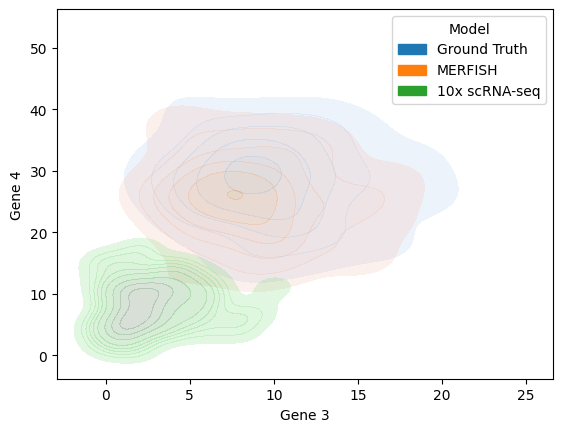
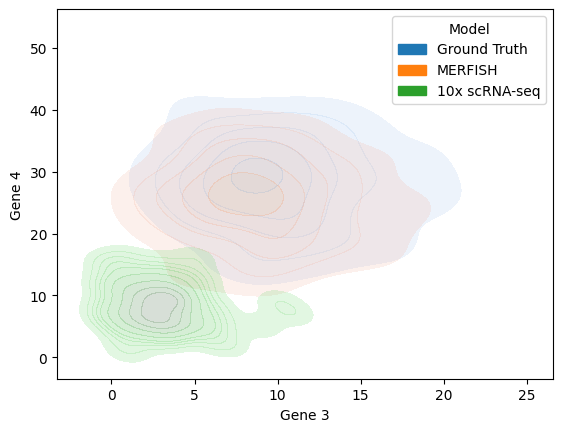
deploy: 98ba71594785bfca68f9c90a9da1b3450429bc72

diff --git a/searchindex.js b/searchindex.js
@@ -1,1 +1,1 @@
-Search.setIndex({docnames:["content","intro","markdown","notebooks"],envversion:{"sphinx.domains.c":2,"sphinx.domains.changeset":1,"sphinx.domains.citation":1,"sphinx.domains.cpp":5,"sphinx.domains.index":1,"sphinx.domains.javascript":2,"sphinx.domains.math":2,"sphinx.domains.python":3,"sphinx.domains.rst":2,"sphinx.domains.std":2,"sphinx.ext.intersphinx":1,"sphinxcontrib.bibtex":9,sphinx:56},filenames:["content.md","intro.md","markdown.md","notebooks.ipynb"],objects:{},objnames:{},objtypes:{},terms:{"0":3,"0s":3,"10":3,"100":3,"1000":3,"10000":3,"1002":3,"101":3,"10138":3,"102":3,"1031":3,"10366":3,"1056":3,"107":3,"11":3,"116":3,"117":3,"118":3,"121":3,"1306700857":3,"133":3,"15":3,"16":3,"17":3,"1738":3,"18":3,"19":3,"2014":2,"2028333819":3,"21":3,"255":3,"2588":3,"26":3,"267":3,"2682":3,"2687":3,"2689":3,"269":3,"27":3,"2742":3,"276":3,"28":3,"286":3,"2861":3,"289":3,"2890":3,"29":3,"290":3,"295":3,"296":3,"2970":3,"298":3,"2982":3,"2987":3,"2992":3,"30":3,"300":3,"3000":3,"3042":3,"3073":3,"3078":3,"31":3,"313":3,"3155":3,"32":3,"320":3,"338":3,"38":3,"4":3,"40":3,"5":3,"6":3,"7":3,"76":3,"79":3,"8":3,"805":3,"83":3,"831":3,"85":3,"87":3,"876":3,"8898":3,"8936":3,"894":3,"896":3,"897":3,"9":3,"90":3,"9001":3,"901":3,"905":3,"91":3,"9152":3,"925":3,"933":3,"9334":3,"940":3,"96":3,"983":3,"99":3,"9927":3,"9959":3,"9983":3,"case":3,"default":[2,3],"do":[0,2],"function":2,"int":3,"new":[1,3],"return":3,"short":0,"true":3,At:2,For:2,If:2,In:[2,3],It:2,The:2,Then:3,There:[0,2],_:3,_core:3,abl:3,about:[1,2,3],academ:1,accept:2,add:2,after_imput:3,again:2,all:2,all_gen:3,allow:2,alpha:3,alreadi:2,also:[2,3],am:1,an:3,analysi:3,ani:[1,2],anndata:3,anoth:[2,3],appear:3,applymap:3,approach:3,ar:[0,3],artificially_sample_cel:3,associ:2,attempt:3,auditori:2,australia:2,automat:3,avoid:3,axi:3,back:3,basi:3,becom:3,befor:3,before_imput:3,behavour:3,being:[2,3],bernoulli:3,besid:3,bib:2,bibliographi:2,bibtex:2,binomi:3,block:2,blog:3,book:2,both:2,bound:3,box:2,brian:2,brisban:2,broad:3,build:2,built:2,call:2,can:[1,2,3],captur:3,capture_r:3,cell:2,cell_gener:3,choic:3,christoph:2,cite:2,claim:3,close:3,cognit:2,column:3,come:3,command:2,commonmark:2,compar:3,complex:2,comput:[1,2],concat:3,confer:2,content:2,convers:3,convert:3,copi:3,cortex:2,could:3,cover:0,creat:3,create_synthetic_cel:3,current:3,d:2,data:1,datafram:3,de:2,def:3,defin:2,denois:3,depend:2,despit:3,determin:3,develop:3,df:3,differ:[2,3],directli:2,discov:3,diseas:1,displai:2,dist:3,distribut:3,divid:3,doc:2,document:2,doesn:2,downstream:3,drop:3,dropout:3,dtype:3,due:3,duplic:3,each:3,ecosystem:2,effect:3,els:3,engin:1,entir:2,errerron:3,evid:2,exact:3,exampl:2,exist:2,explicitli:3,extens:2,extern:3,f:3,fail:3,fals:3,few:0,figur:3,fill:3,find:1,first:2,flavor:2,float32:3,float64:3,fluoresc:3,follow:2,fraction:3,from:3,frontier:2,futur:3,futurewarn:3,g:3,gene:3,get:3,given:3,go:1,goal:3,ground:3,ha:[2,3],hdhpk14:2,head:3,health:1,heer:2,hello:1,help:[1,3],here:[2,3],high:3,hold:3,holdgraf:2,holdgraf_evidence_2014:2,hostedtoolcach:3,how:0,hue:3,human:2,i:[1,3],identifi:3,ignore_index:3,implicitmodificationwarn:3,improv:3,imputed_df:3,imputed_resc:3,imputed_rescaled_df:3,includ:[2,3],index:3,indic:3,inform:[2,3],init:2,inplac:3,input:[2,3],insert:2,insid:2,insight:1,institut:3,int64:3,interest:1,intern:2,intro:2,ipykernel_1989:3,ipynb:2,its:[2,3],journei:1,junior:1,jupyt:2,jupytext:2,kdeplot:3,kernel:2,kind:2,knight:2,krishnaswami:3,lab:3,lambda:3,languag:2,later:3,learn:1,len:3,less:2,leverag:1,lib:3,like:2,limit:3,line:2,list:3,ll:2,look:2,lost:3,lower:3,m100:3,m100_new:3,m99:3,m99_new:3,mani:[0,2],markedli:2,markup:2,math:1,matplotlib:3,max:3,max_ratio:3,md:2,meanwhil:3,measur:3,median:3,merfish_df:3,merfish_original_synth:3,merfish_repr:3,merfish_rna_count:3,metadata:2,method:3,metric:3,mit:1,model:3,molecul:3,more:[2,3],moreov:2,mortem:3,most:2,mrna:3,much:3,multipli:3,must:2,my:[1,2],mydirectivenam:2,n:[2,3],n_job:3,name:[1,2],name_list:3,nb:2,nbinom:3,necessari:3,neg:3,neurosci:2,next:3,normalize_tot:3,normalized_sum:3,note:2,notebook:2,np:3,number:3,number_cel:3,numpi:3,obscur:3,observ:3,observerd:3,obtain:3,older:3,onc:2,one:2,onli:[2,3],opt:3,order:3,our:3,output:[2,3],over:1,p:3,packag:3,page:2,panda:3,paramet:3,paslei:2,pass:3,path:2,pattern:2,pd:3,percentil:3,perform:3,pipelin:3,plt:3,popular:3,post:3,potenti:3,power:2,pp:3,pre:[2,3],predict:2,previous:3,print:2,probabl:3,process:3,profil:3,promis:3,properli:2,purpos:2,py:3,pyplot:3,python3:3,python:3,ramsai:2,random:3,rang:3,rate:3,re:3,ready_for_plot:3,receiv:3,recuper:3,refer:2,regular:2,rel:2,relationship:3,render:2,repres:3,rescale_data:3,research:1,resembl:3,rest:2,result:2,rna:3,rna_species_char:3,rna_species_characteristic_numb:3,robert:2,rolenam:2,root:3,row:3,rule:1,run:2,rv:3,rv_continu:3,rv_discret:3,s:[2,3],same:2,sampl:3,saul:1,sc:3,scanpi:3,scatterplot:3,sce:3,scienc:1,scipi:3,scnra:3,seaborn:3,section:0,see:[1,2,3],seed:3,sequenc:3,serv:[2,3],set:3,set_axi:3,shape:3,share:1,sim_captur:3,similar:[2,3],simpl:3,simplest:2,singl:3,site:[2,3],size:3,slight:2,small:2,sn:3,so:[0,2],solver:3,some:2,span:2,speci:3,specif:2,spectrum:3,sphinx:2,sqrt:3,squar:3,stand:2,stat:3,step:3,still:3,store:2,str:3,strive:1,structur:2,studi:1,success:3,successfulli:3,sum:3,support:3,syntax:2,synth_cel:3,t:[2,3],target:3,target_data:3,target_sum:3,tenx_norm:3,tenx_norm_df:3,tenx_original_synth:3,tenx_raw:3,tenx_repr:3,tenx_rescaled_norm:3,test:3,text:2,thei:[2,3],thi:[0,1,2,3],thing:1,think:3,those:2,through:1,throughout:1,thu:3,tile:3,time:[1,2],tip:0,tissu:3,tmp:3,to_df:3,tool:[2,3],transcript:3,transform:3,true_cells_df:3,truth:3,two:[2,3],univers:3,us:[1,3],util:3,valid:2,valu:3,variat:2,veri:2,version:3,vestigi:3,visual:3,wai:0,warn:3,we:3,weight:3,welcom:2,wendi:2,what:1,when:2,where:3,wherea:2,whether:[2,3],which:[2,3],within:3,without:3,work:2,write:[0,2,3],written:2,x64:3,x:3,y:3,you:2,your:3},titles:["Content in Jupyter Book","Welcome to the site!","Markdown Files","Evaluating MAGIC with Synthetic Dataset"],titleterms:{"1":3,"10x":3,"2":3,"3":3,"function":3,"import":3,ad:2,after:3,ar:2,book:0,both:3,cell:3,citat:2,code:2,content:0,count:3,data:3,dataset:3,direct:2,evalu:3,execut:2,file:2,gener:3,imput:3,intro:3,jupyt:0,magic:3,markdown:2,merfish:3,myst:2,normal:3,peek:3,plot:3,rescal:3,result:3,role:2,run:3,scrna:3,seq:3,simul:3,site:1,synthet:3,us:2,welcom:1,what:2,your:2}})
+Search.setIndex({docnames:["content","intro","markdown","notebooks"],envversion:{"sphinx.domains.c":2,"sphinx.domains.changeset":1,"sphinx.domains.citation":1,"sphinx.domains.cpp":5,"sphinx.domains.index":1,"sphinx.domains.javascript":2,"sphinx.domains.math":2,"sphinx.domains.python":3,"sphinx.domains.rst":2,"sphinx.domains.std":2,"sphinx.ext.intersphinx":1,"sphinxcontrib.bibtex":9,sphinx:56},filenames:["content.md","intro.md","markdown.md","notebooks.ipynb"],objects:{},objnames:{},objtypes:{},terms:{"0":3,"0s":3,"10":3,"100":3,"1000":3,"10000":3,"1002":3,"101":3,"10138":3,"1031":3,"10366":3,"1056":3,"106":3,"107":3,"112":3,"116":3,"118":3,"12":3,"121":3,"1306700857":3,"133":3,"145":3,"16":3,"17":3,"1738":3,"18":3,"2014":2,"2028333819":3,"21":3,"25":3,"26":3,"2600":3,"261":3,"2669":3,"2707":3,"271":3,"2711":3,"272":3,"2741":3,"275":3,"281":3,"282":3,"2861":3,"287":3,"29":3,"290":3,"295":3,"296":3,"2963":3,"2969":3,"2970":3,"2980":3,"2982":3,"2987":3,"30":3,"300":3,"3000":3,"304":3,"3073":3,"3081":3,"3086":3,"32":3,"320":3,"322":3,"33":3,"4":3,"40":3,"42":3,"43":3,"5":3,"6":3,"7":3,"78":3,"8":3,"82":3,"832":3,"846":3,"85":3,"86":3,"871":3,"881":3,"8924":3,"898":3,"8986":3,"8988":3,"9":3,"90":3,"902":3,"910":3,"9151":3,"925":3,"932":3,"9371":3,"940":3,"950":3,"983":3,"99":3,"9927":3,"9959":3,"9983":3,"case":3,"default":[2,3],"do":[0,2],"function":2,"int":3,"new":[1,3],"return":3,"short":0,"true":3,At:2,For:2,If:2,In:[2,3],It:2,The:2,Then:3,There:[0,2],_:3,_core:3,abl:3,about:[1,2,3],academ:1,accept:2,add:2,after_imput:3,again:2,all:2,all_gen:3,allow:2,alpha:3,alreadi:2,also:[2,3],am:1,an:3,analysi:3,ani:[1,2],anndata:3,anoth:[2,3],appear:3,applymap:3,approach:3,ar:[0,3],artificially_sample_cel:3,associ:2,attempt:3,auditori:2,australia:2,automat:3,avoid:3,axi:3,back:3,basi:3,becom:3,befor:3,before_imput:3,behavour:3,being:[2,3],bernoulli:3,besid:3,bib:2,bibliographi:2,bibtex:2,binomi:3,block:2,blog:3,book:2,both:2,bound:3,box:2,brian:2,brisban:2,broad:3,build:2,built:2,call:2,can:[1,2,3],captur:3,capture_r:3,cell:2,cell_gener:3,choic:3,christoph:2,cite:2,claim:3,close:3,cognit:2,column:3,come:3,command:2,commonmark:2,compar:3,complex:2,comput:[1,2],concat:3,confer:2,content:2,convers:3,convert:3,copi:3,cortex:2,could:3,cover:0,creat:3,create_synthetic_cel:3,current:3,d:2,data:1,datafram:3,de:2,def:3,defin:2,denois:3,depend:2,despit:3,determin:3,develop:3,df:3,differ:[2,3],directli:2,discov:3,diseas:1,displai:2,dist:3,distribut:3,divid:3,doc:2,document:2,doesn:2,downstream:3,drop:3,dropout:3,dtype:3,due:3,duplic:3,each:3,ecosystem:2,effect:3,els:3,engin:1,entir:2,errerron:3,evid:2,exact:3,exampl:2,exist:2,explicitli:3,extens:2,extern:3,f:3,fail:3,fals:3,few:0,figur:3,fill:3,find:1,first:2,flavor:2,float32:3,float64:3,fluoresc:3,follow:2,fraction:3,from:3,frontier:2,futur:3,futurewarn:3,g:3,gene:3,get:3,given:3,go:1,goal:3,ground:3,ha:[2,3],hdhpk14:2,head:3,health:1,heer:2,hello:1,help:[1,3],here:[2,3],high:3,hold:3,holdgraf:2,holdgraf_evidence_2014:2,hostedtoolcach:3,how:0,hue:3,human:2,i:[1,3],identifi:3,ignore_index:3,implicitmodificationwarn:3,improv:3,imputed_df:3,imputed_resc:3,imputed_rescaled_df:3,includ:[2,3],index:3,indic:3,inform:[2,3],init:2,inplac:3,input:[2,3],insert:2,insid:2,insight:1,institut:3,int64:3,interest:1,intern:2,intro:2,ipykernel_1895:3,ipynb:2,its:[2,3],journei:1,junior:1,jupyt:2,jupytext:2,kdeplot:3,kernel:2,kind:2,knight:2,krishnaswami:3,lab:3,lambda:3,languag:2,later:3,learn:1,len:3,less:2,leverag:1,lib:3,like:2,limit:3,line:2,list:3,ll:2,look:2,lost:3,lower:3,m100:3,m100_new:3,m99:3,m99_new:3,mani:[0,2],markedli:2,markup:2,math:1,matplotlib:3,max:3,max_ratio:3,md:2,meanwhil:3,measur:3,median:3,merfish_df:3,merfish_original_synth:3,merfish_repr:3,merfish_rna_count:3,metadata:2,method:3,metric:3,mit:1,model:3,molecul:3,more:[2,3],moreov:2,mortem:3,most:2,mrna:3,much:3,multipli:3,must:2,my:[1,2],mydirectivenam:2,n:[2,3],n_job:3,name:[1,2],name_list:3,nb:2,nbinom:3,necessari:3,neg:3,neurosci:2,next:3,normalize_tot:3,normalized_sum:3,note:2,notebook:2,np:3,number:3,number_cel:3,numpi:3,obscur:3,observ:3,observerd:3,obtain:3,older:3,onc:2,one:2,onli:[2,3],opt:3,order:3,our:3,output:[2,3],over:1,p:3,packag:3,page:2,panda:3,paramet:3,paslei:2,pass:3,path:2,pattern:2,pd:3,percentil:3,perform:3,pipelin:3,plt:3,popular:3,post:3,potenti:3,power:2,pp:3,pre:[2,3],predict:2,previous:3,print:2,probabl:3,process:3,profil:3,promis:3,properli:2,purpos:2,py:3,pyplot:3,python3:3,python:3,ramsai:2,random:3,rang:3,rate:3,re:3,ready_for_plot:3,receiv:3,recuper:3,refer:2,regular:2,rel:2,relationship:3,render:2,repres:3,rescale_data:3,research:1,resembl:3,rest:2,result:2,rna:3,rna_species_char:3,rna_species_characteristic_numb:3,robert:2,rolenam:2,root:3,row:3,rule:1,run:2,rv:3,rv_continu:3,rv_discret:3,s:[2,3],same:2,sampl:3,saul:1,sc:3,scanpi:3,scatterplot:3,sce:3,scienc:1,scipi:3,scnra:3,seaborn:3,section:0,see:[1,2,3],seed:3,sequenc:3,serv:[2,3],set:3,set_axi:3,shape:3,share:1,sim_captur:3,similar:[2,3],simpl:3,simplest:2,singl:3,site:[2,3],size:3,slight:2,small:2,sn:3,so:[0,2],solver:3,some:2,span:2,speci:3,specif:2,spectrum:3,sphinx:2,sqrt:3,squar:3,stand:2,stat:3,step:3,still:3,store:2,str:3,strive:1,structur:2,studi:1,success:3,successfulli:3,sum:3,support:3,syntax:2,synth_cel:3,t:[2,3],target:3,target_data:3,target_sum:3,tenx_norm:3,tenx_norm_df:3,tenx_original_synth:3,tenx_raw:3,tenx_repr:3,tenx_rescaled_norm:3,test:3,text:2,thei:[2,3],thi:[0,1,2,3],thing:1,think:3,those:2,through:1,throughout:1,thu:3,tile:3,time:[1,2],tip:0,tissu:3,tmp:3,to_df:3,tool:[2,3],transcript:3,transform:3,true_cells_df:3,truth:3,two:[2,3],univers:3,us:[1,3],util:3,valid:2,valu:3,variat:2,veri:2,version:3,vestigi:3,visual:3,wai:0,warn:3,we:3,weight:3,welcom:2,wendi:2,what:1,when:2,where:3,wherea:2,whether:[2,3],which:[2,3],within:3,without:3,work:2,write:[0,2,3],written:2,x64:3,x:3,y:3,you:2,your:3},titles:["Content in Jupyter Book","Welcome to the site!","Markdown Files","Evaluating MAGIC with Synthetic Dataset"],titleterms:{"1":3,"10x":3,"2":3,"3":3,"function":3,"import":3,ad:2,after:3,ar:2,book:0,both:3,cell:3,citat:2,code:2,content:0,count:3,data:3,dataset:3,direct:2,evalu:3,execut:2,file:2,gener:3,imput:3,intro:3,jupyt:0,magic:3,markdown:2,merfish:3,myst:2,normal:3,peek:3,plot:3,rescal:3,result:3,role:2,run:3,scrna:3,seq:3,simul:3,site:1,synthet:3,us:2,welcom:1,what:2,your:2}})

diff --git a/notebooks.html b/notebooks.html
@@ -810,13 +810,13 @@ tenx_original_synth[&quot;Model&quot;] = &quot;10x scRNA-seq&quot;
       <th>0</th>
       <td>1</td>
       <td>3</td>
-      <td>8</td>
-      <td>28</td>
-      <td>102</td>
-      <td>269</td>
-      <td>831</td>
-      <td>2689</td>
-      <td>9152</td>
+      <td>7</td>
+      <td>30</td>
+      <td>112</td>
+      <td>272</td>
+      <td>832</td>
+      <td>2711</td>
+      <td>9151</td>
       <td>MERFISH</td>
     </tr>
     <tr>
@@ -824,25 +824,25 @@ tenx_original_synth[&quot;Model&quot;] = &quot;10x scRNA-seq&quot;
       <td>2</td>
       <td>3</td>
       <td>5</td>
-      <td>19</td>
-      <td>101</td>
-      <td>267</td>
-      <td>897</td>
-      <td>2682</td>
-      <td>9334</td>
+      <td>21</td>
+      <td>107</td>
+      <td>261</td>
+      <td>898</td>
+      <td>2669</td>
+      <td>9371</td>
       <td>MERFISH</td>
     </tr>
     <tr>
       <th>2</th>
-      <td>5</td>
-      <td>0</td>
-      <td>15</td>
+      <td>8</td>
+      <td>1</td>
+      <td>17</td>
       <td>16</td>
-      <td>117</td>
-      <td>286</td>
+      <td>116</td>
+      <td>282</td>
       <td>925</td>
-      <td>2742</td>
-      <td>8898</td>
+      <td>2741</td>
+      <td>8988</td>
       <td>MERFISH</td>
     </tr>
     <tr>
@@ -850,25 +850,25 @@ tenx_original_synth[&quot;Model&quot;] = &quot;10x scRNA-seq&quot;
       <td>0</td>
       <td>2</td>
       <td>8</td>
-      <td>27</td>
+      <td>26</td>
       <td>107</td>
-      <td>289</td>
-      <td>876</td>
-      <td>2588</td>
-      <td>8936</td>
+      <td>287</td>
+      <td>881</td>
+      <td>2600</td>
+      <td>8924</td>
       <td>MERFISH</td>
     </tr>
     <tr>
       <th>4</th>
       <td>6</td>
       <td>2</td>
-      <td>6</td>
-      <td>27</td>
-      <td>76</td>
-      <td>255</td>
-      <td>933</td>
-      <td>2687</td>
-      <td>9001</td>
+      <td>7</td>
+      <td>29</td>
+      <td>78</td>
+      <td>271</td>
+      <td>950</td>
+      <td>2707</td>
+      <td>8986</td>
       <td>MERFISH</td>
     </tr>
   </tbody>
@@ -918,41 +918,41 @@ tenx_original_synth[&quot;Model&quot;] = &quot;10x scRNA-seq&quot;
   <tbody>
     <tr>
       <th>0</th>
-      <td>0</td>
-      <td>0</td>
-      <td>2</td>
-      <td>7</td>
-      <td>26</td>
-      <td>87</td>
-      <td>276</td>
-      <td>905</td>
-      <td>3042</td>
+      <td>1</td>
+      <td>1</td>
+      <td>1</td>
+      <td>12</td>
+      <td>42</td>
+      <td>86</td>
+      <td>281</td>
+      <td>902</td>
+      <td>2980</td>
       <td>10x scRNA-seq</td>
     </tr>
     <tr>
       <th>1</th>
+      <td>1</td>
       <td>0</td>
-      <td>1</td>
-      <td>1</td>
-      <td>5</td>
-      <td>31</td>
-      <td>79</td>
-      <td>313</td>
-      <td>894</td>
-      <td>3155</td>
+      <td>2</td>
+      <td>7</td>
+      <td>25</td>
+      <td>85</td>
+      <td>304</td>
+      <td>871</td>
+      <td>3081</td>
       <td>10x scRNA-seq</td>
     </tr>
     <tr>
       <th>2</th>
-      <td>2</td>
-      <td>0</td>
-      <td>5</td>
       <td>7</td>
-      <td>38</td>
-      <td>96</td>
-      <td>298</td>
-      <td>901</td>
-      <td>3078</td>
+      <td>1</td>
+      <td>6</td>
+      <td>5</td>
+      <td>43</td>
+      <td>106</td>
+      <td>322</td>
+      <td>910</td>
+      <td>3086</td>
       <td>10x scRNA-seq</td>
     </tr>
     <tr>
@@ -960,25 +960,25 @@ tenx_original_synth[&quot;Model&quot;] = &quot;10x scRNA-seq&quot;
       <td>0</td>
       <td>1</td>
       <td>3</td>
-      <td>11</td>
-      <td>31</td>
-      <td>91</td>
-      <td>295</td>
-      <td>805</td>
-      <td>2890</td>
+      <td>8</td>
+      <td>33</td>
+      <td>101</td>
+      <td>275</td>
+      <td>846</td>
+      <td>2963</td>
       <td>10x scRNA-seq</td>
     </tr>
     <tr>
       <th>4</th>
+      <td>2</td>
       <td>1</td>
       <td>0</td>
-      <td>2</td>
-      <td>10</td>
-      <td>21</td>
-      <td>83</td>
-      <td>338</td>
-      <td>896</td>
-      <td>2992</td>
+      <td>6</td>
+      <td>25</td>
+      <td>82</td>
+      <td>290</td>
+      <td>932</td>
+      <td>2969</td>
       <td>10x scRNA-seq</td>
     </tr>
   </tbody>
@@ -1042,11 +1042,11 @@ sc.pp.sqrt(tenx_repr)
 </div>
 </div>
 <div class="cell_output docutils container">
-<div class="output stderr highlight-myst-ansi notranslate"><div class="highlight"><pre><span></span>/tmp/ipykernel_1989/1306700857.py:9: FutureWarning: X.dtype being converted to np.float32 from int64. In the next version of anndata (0.9) conversion will not be automatic. Pass dtype explicitly to avoid this warning. Pass `AnnData(X, dtype=X.dtype, ...)` to get the future behavour.
+<div class="output stderr highlight-myst-ansi notranslate"><div class="highlight"><pre><span></span>/tmp/ipykernel_1895/1306700857.py:9: FutureWarning: X.dtype being converted to np.float32 from int64. In the next version of anndata (0.9) conversion will not be automatic. Pass dtype explicitly to avoid this warning. Pass `AnnData(X, dtype=X.dtype, ...)` to get the future behavour.
   merfish_repr = sc.AnnData(merfish_original_synth)
 /opt/hostedtoolcache/Python/3.10.9/x64/lib/python3.10/site-packages/anndata/_core/anndata.py:121: ImplicitModificationWarning: Transforming to str index.
   warnings.warn(&quot;Transforming to str index.&quot;, ImplicitModificationWarning)
-/tmp/ipykernel_1989/1306700857.py:10: FutureWarning: X.dtype being converted to np.float32 from int64. In the next version of anndata (0.9) conversion will not be automatic. Pass dtype explicitly to avoid this warning. Pass `AnnData(X, dtype=X.dtype, ...)` to get the future behavour.
+/tmp/ipykernel_1895/1306700857.py:10: FutureWarning: X.dtype being converted to np.float32 from int64. In the next version of anndata (0.9) conversion will not be automatic. Pass dtype explicitly to avoid this warning. Pass `AnnData(X, dtype=X.dtype, ...)` to get the future behavour.
   tenx_repr = sc.AnnData(tenx_original_synth)
 </pre></div>
 </div>
@@ -1056,11 +1056,16 @@ sc.pp.sqrt(tenx_repr)
 <section id="running-magic">
 <h3>2.2: Running MAGIC<a class="headerlink" href="#running-magic" title="Permalink to this headline">#</a></h3>
 <p>Running MAGIC with default parameters and normalizing the imputed counts back to the basis of the MERFISH median by squaring and normalizing sum.</p>
-<div class="cell docutils container">
+<div class="cell tag_hide-output docutils container">
 <div class="cell_input docutils container">
-<div class="highlight-ipython3 notranslate"><div class="highlight"><pre><span></span>%%capture
-sce.pp.magic(tenx_repr, name_list=&#39;all_genes&#39;, solver=&#39;exact&#39;, n_jobs=-1)
+<div class="highlight-ipython3 notranslate"><div class="highlight"><pre><span></span>sce.pp.magic(tenx_repr, name_list=&#39;all_genes&#39;, solver=&#39;exact&#39;, n_jobs=-1)
 tenx_repr.X = tenx_repr.X**2
+</pre></div>
+</div>
+</div>
+<div class="cell_output docutils container">
+<div class="output stderr highlight-myst-ansi notranslate"><div class="highlight"><pre><span></span>/opt/hostedtoolcache/Python/3.10.9/x64/lib/python3.10/site-packages/magic/utils.py:145: FutureWarning: X.dtype being converted to np.float32 from float64. In the next version of anndata (0.9) conversion will not be automatic. Pass dtype explicitly to avoid this warning. Pass `AnnData(X, dtype=X.dtype, ...)` to get the future behavour.
+  data = anndata.AnnData(data)
 </pre></div>
 </div>
 </div>
@@ -1079,7 +1084,7 @@ imputed_rescaled = sc.AnnData(imputed_rescaled_df)
 </div>
 </div>
 <div class="cell_output docutils container">
-<div class="output stderr highlight-myst-ansi notranslate"><div class="highlight"><pre><span></span>/tmp/ipykernel_1989/2028333819.py:4: FutureWarning: X.dtype being converted to np.float32 from float64. In the next version of anndata (0.9) conversion will not be automatic. Pass dtype explicitly to avoid this warning. Pass `AnnData(X, dtype=X.dtype, ...)` to get the future behavour.
+<div class="output stderr highlight-myst-ansi notranslate"><div class="highlight"><pre><span></span>/tmp/ipykernel_1895/2028333819.py:4: FutureWarning: X.dtype being converted to np.float32 from float64. In the next version of anndata (0.9) conversion will not be automatic. Pass dtype explicitly to avoid this warning. Pass `AnnData(X, dtype=X.dtype, ...)` to get the future behavour.
   imputed_rescaled = sc.AnnData(imputed_rescaled_df)
 </pre></div>
 </div>
